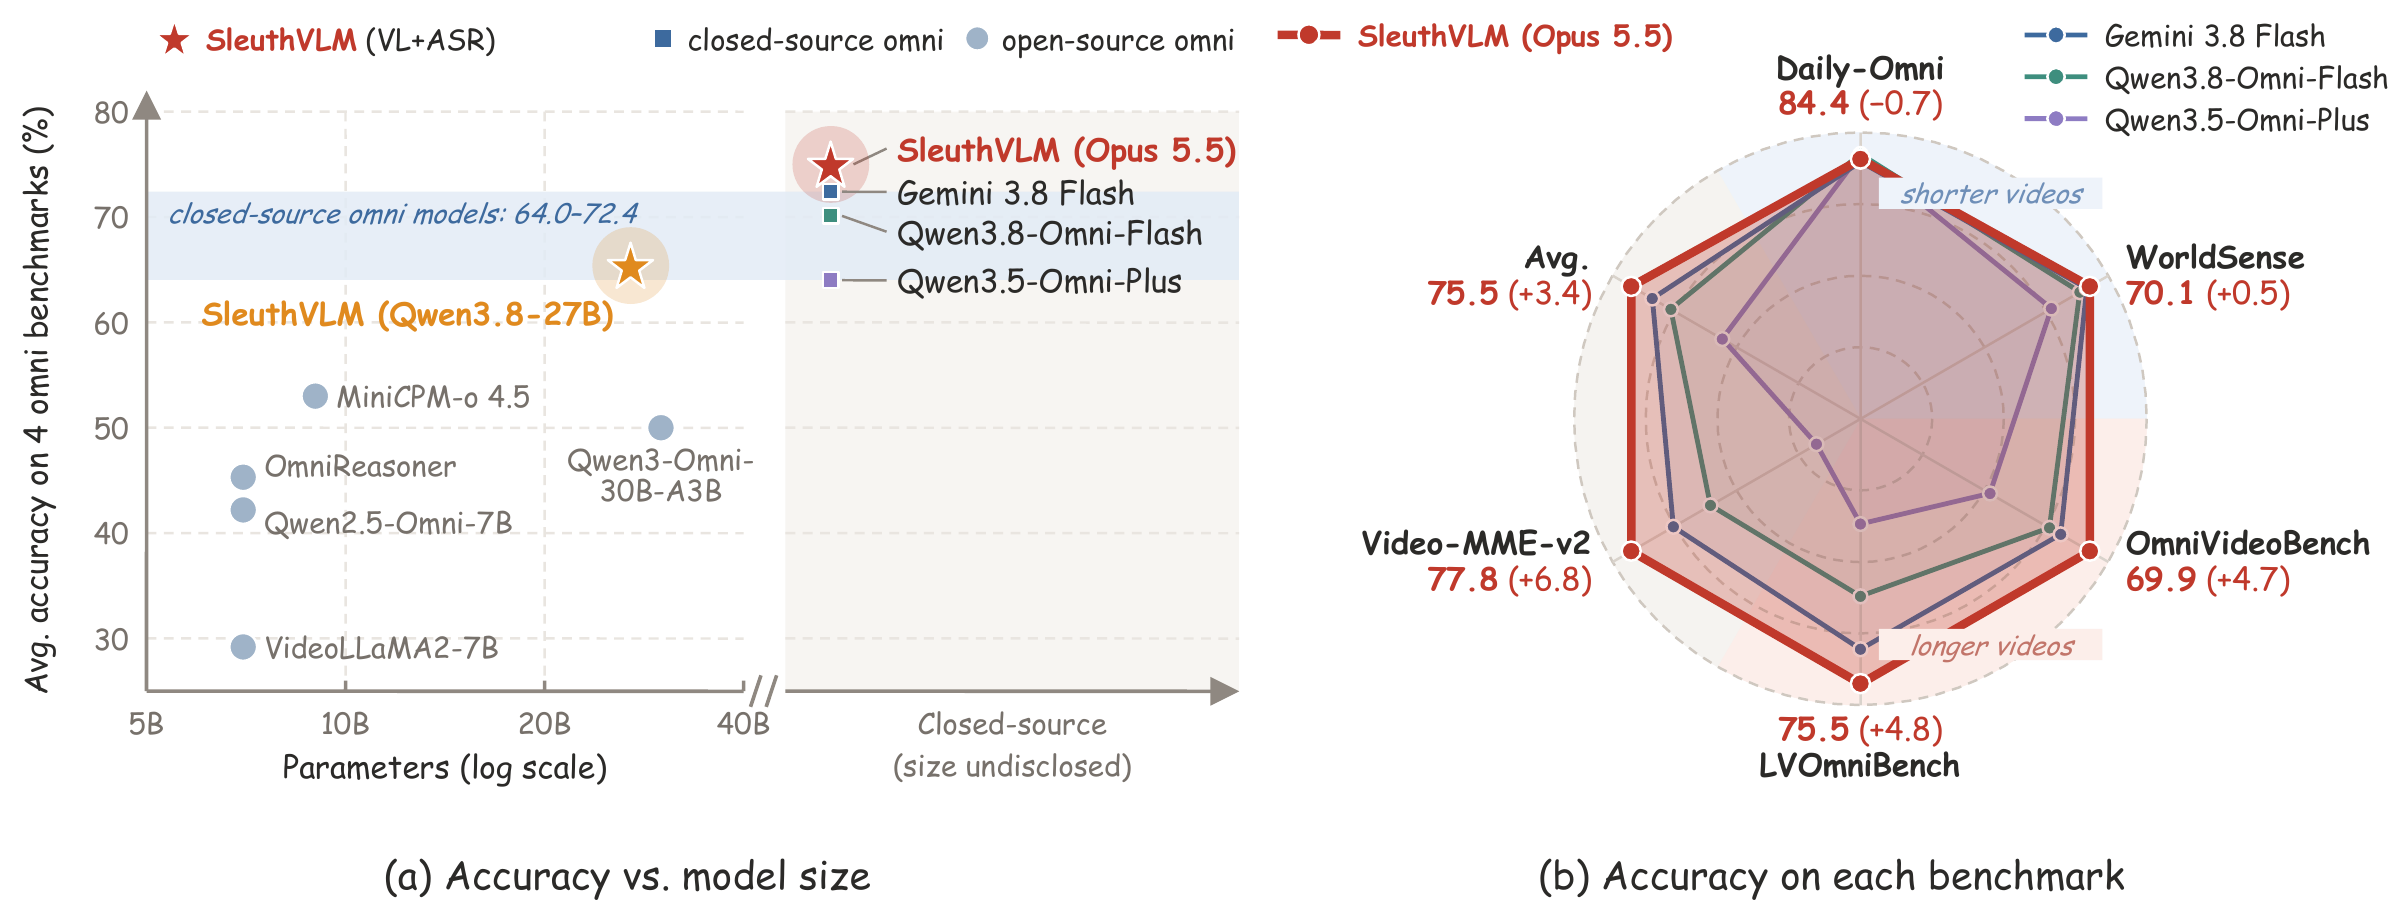
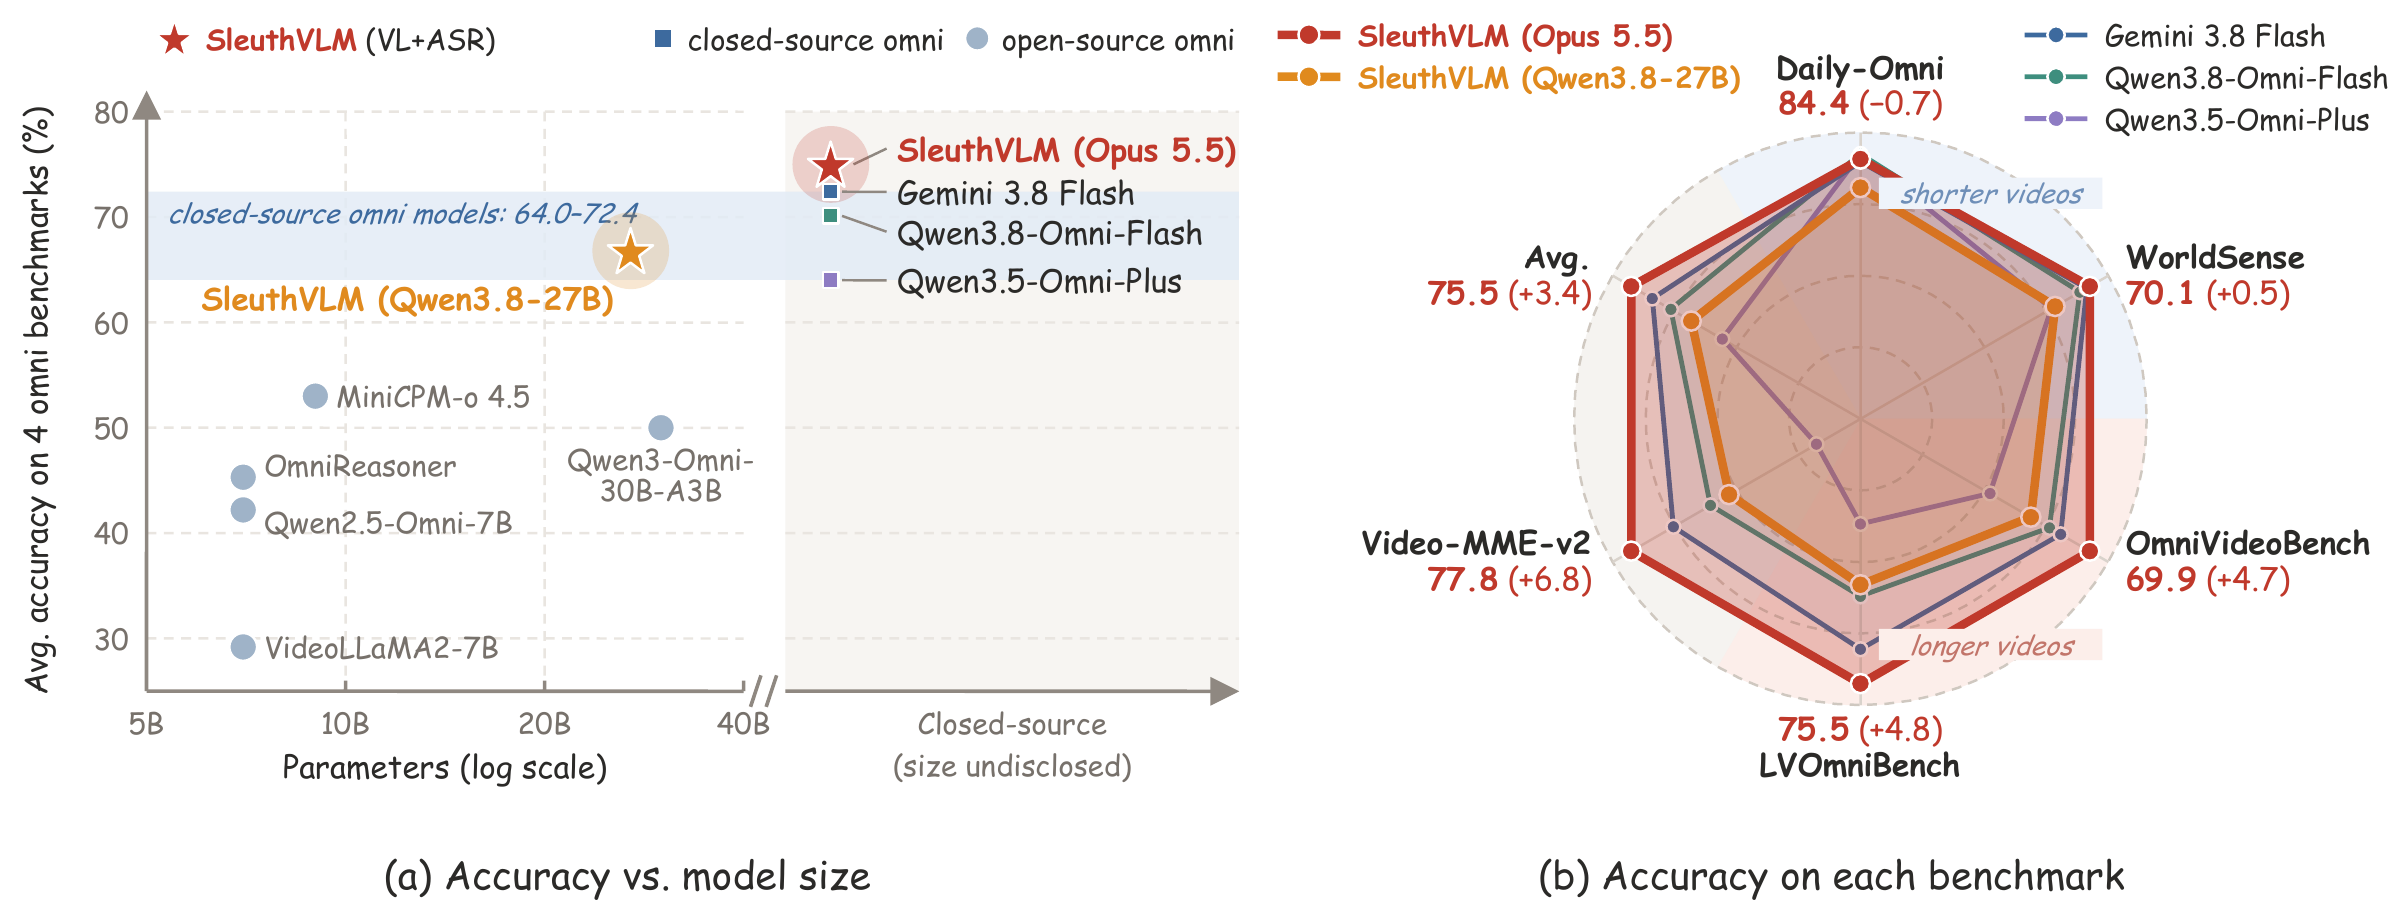
wpr

diff --git a/index.html b/index.html
@@ -88,7 +88,7 @@
         <div class="stat-label">accuracy on Video-MME-v2, <b>best on every metric</b> of the leaderboard</div>
       </div>
       <div class="stat">
-        <div class="stat-value">+12.4</div>
+        <div class="stat-value">+13.8</div>
         <div class="stat-label">points for an open <b>27B VLM</b> over the best open-source omni model</div>
       </div>
     </div>
@@ -96,7 +96,7 @@
 
   <section class="container" id="abstract">
     <h2>Abstract</h2>
-    <p>Omni models answer questions about videos by jointly processing sampled frames and audio in one turn, with progress driven largely by scaling model size and omni training data. We ask whether a model needs to hear the audio directly at all, and present <b>SleuthVLM</b>, an agent harness built on a VLM that never hears the audio directly: speech is transcribed into text, and the VLM sleuths the video on its own. On four omni benchmarks with videos up to 90 minutes, SleuthVLM achieves the best average accuracy, <b>75.0%</b>, 2.6 points above Gemini 3.8 Flash, and it also tops the Video-MME-v2 leaderboard with <b>77.8%</b>; with an open-source 27B VLM, it beats all open-source omni models. We draw three findings: SleuthVLM beats a model that glances; hearing is not the bottleneck, agentic ability is; omni understanding needs better agentic ability, not just more omni data for modality alignment.</p>
+    <p>Omni models answer questions about videos by jointly processing sampled frames and audio in one turn, with progress driven largely by scaling model size and omni training data. We ask whether a model needs to hear the audio directly at all, and present <b>SleuthVLM</b>, an agent harness built on a VLM that never hears the audio directly: speech is transcribed into text, and the VLM sleuths the video on its own without any predefined workflow. On four omni benchmarks with videos up to 90 minutes, SleuthVLM achieves the best average accuracy, <b>75.0%</b>, 2.6 points above Gemini 3.8 Flash, and it also tops the Video-MME-v2 leaderboard with <b>77.8%</b>; with an open-source 27B VLM, it beats all open-source omni models. We draw three findings: SleuthVLM beats a model that glances; hearing is not the bottleneck, agentic ability is; omni understanding needs better agentic ability, not just more omni data for modality alignment. So we provide a simple but effective starting point for omni video understanding.</p>
   </section>
 
   <section class="container" id="findings">
@@ -118,6 +118,7 @@
         <p>An open 27B VLM running on a single GPU matches the performance of closed-source omni models.</p>
       </article>
     </div>
+    <p class="takeaway">Taken together, <b>SleuthVLM provides a simple yet effective starting point for agentic omni video understanding.</b></p>
   </section>
 
   <section class="container" id="method">
@@ -146,11 +147,11 @@
 
   <section class="container" id="results">
     <h2>Results</h2>
-    <p>Without hearing the audio directly, SleuthVLM (Opus 5.5) achieves the best average accuracy on four omni benchmarks, ahead of every closed-source omni model, and its lead grows with the length of the video. With an open 27B model, SleuthVLM leads the best open-source omni model by 12.4 points on average and by 17.3 on LVOmniBench.</p>
+    <p>Without hearing the audio directly, SleuthVLM (Opus 5.5) achieves the best average accuracy on four omni benchmarks, ahead of every closed-source omni model, and its lead grows with the length of the video. With an open 27B model, SleuthVLM leads the best open-source omni model by 13.8 points on average and by 18.8 on LVOmniBench.</p>
 
     <div class="table-wrap">
       <table class="results">
-        <caption><b>Comparison with omni models and agents on four omni benchmarks</b> (accuracy, %). A+V: audio as input; V+ASR: speech as a timed transcript, no direct audio. <b>Bold</b>: best; <u>underline</u>: second best; &ndash;: not reported. In parentheses: difference from the best open-source omni model (<span class="d-open">green</span>) or from the best closed-source omni model or Qwen Code agent (<span class="d-closed">red</span>).</caption>
+        <caption><b>Comparison with omni models and agents on four omni benchmarks</b> (accuracy, %). A+V: audio as input; V+ASR: speech as a timed transcript, no direct audio. <b>Bold</b>: best; <u>underline</u>: second best; &ndash;: not reported. In parentheses: difference from the best open-source omni model (<span class="d-open">green</span>) or from the best closed-source omni model or Qwen Code agent (<span class="d-closed">red</span>). All reasoning models run with high reasoning effort; medium: Qwen3.8-27B with medium reasoning effort.</caption>
         <thead>
           <tr><th>Model</th><th>Input</th><th>Daily-Omni</th><th>WorldSense</th><th>OmniVideoBench</th><th>LVOmniBench</th><th>Avg.</th></tr>
         </thead>
@@ -176,14 +177,15 @@
           <tr><td>Gemini 3.8 Flash (Qwen Code)</td><td>A+V</td><td class="na">&ndash;</td><td class="na">&ndash;</td><td><b>70.1</b></td><td>70.7</td><td class="na">&ndash;</td></tr>
           <tr class="group"><td colspan="7">VL + ASR agents</td></tr>
           <tr><td>Qwen3-VL-30B-A3B + TFO</td><td>V+ASR</td><td>68.9</td><td>51.9</td><td class="na">&ndash;</td><td class="na">&ndash;</td><td class="na">&ndash;</td></tr>
-          <tr class="ours"><td>SleuthVLM (Qwen3.8-27B)</td><td>V+ASR</td><td>80.3 <span class="d-open">(&minus;2.1)</span></td><td>62.8 <span class="d-open">(+1.9)</span></td><td>58.3 <span class="d-open">(+14.4)</span></td><td>60.2 <span class="d-open">(+17.3)</span></td><td>65.4 <span class="d-open">(+12.4)</span></td></tr>
+          <tr class="ours"><td>SleuthVLM (Qwen3.8-27B, medium)</td><td>V+ASR</td><td>80.3 <span class="d-open">(&minus;2.1)</span></td><td>62.8 <span class="d-open">(+1.9)</span></td><td>58.3 <span class="d-open">(+14.4)</span></td><td>60.2 <span class="d-open">(+17.3)</span></td><td>65.4 <span class="d-open">(+12.4)</span></td></tr>
+          <tr class="ours"><td>SleuthVLM (Qwen3.8-27B)</td><td>V+ASR</td><td>80.4 <span class="d-open">(&minus;2.0)</span></td><td>64.5 <span class="d-open">(+3.6)</span></td><td>60.4 <span class="d-open">(+16.5)</span></td><td>61.7 <span class="d-open">(+18.8)</span></td><td>66.8 <span class="d-open">(+13.8)</span></td></tr>
           <tr class="ours"><td>SleuthVLM (Opus 5.5)</td><td>V+ASR</td><td><u>84.4</u> <span class="d-closed">(&minus;0.7)</span></td><td><b>70.1</b> <span class="d-closed">(+0.5)</span></td><td><u>69.9</u> <span class="d-closed">(&minus;0.2)</span></td><td><b>75.5</b> <span class="d-closed">(+1.9)</span></td><td><b>75.0</b> <span class="d-closed">(+2.6)</span></td></tr>
         </tbody>
       </table>
     </div>
 
     <h3 class="sub">Video-MME-v2</h3>
-    <p>SleuthVLM (Opus 5.5) also sets a new state of the art on Video-MME-v2: with 77.8% average accuracy and a non-linear score of 63.5, it is the best model on every metric of the leaderboard, 6.8 points above Gemini 3.8 Flash in accuracy. Over the four omni benchmarks and Video-MME-v2 together, it achieves the best average, 75.5%.</p>
+    <p>SleuthVLM (Opus 5.5) also sets a new state of the art on Video-MME-v2: with 77.8% average accuracy and a non-linear score of 63.5, it is the best model on every metric of the leaderboard, 6.8 points above Gemini 3.8 Flash in accuracy. Over the four omni benchmarks and Video-MME-v2 together, it achieves the best average, 75.5%. With Qwen3.8-27B, SleuthVLM reaches 62.0% accuracy and a non-linear score of 44.4, ahead of Gemini-3-Flash, GPT-5 and every open-source model on the leaderboard.</p>
     <div class="table-wrap narrow">
       <table class="results">
         <caption><b>Average over the four omni benchmarks and Video-MME-v2</b> (accuracy, %). DO: Daily-Omni; WS: WorldSense; OVB: OmniVideoBench; LV: LVOmniBench; VM2: Video-MME-v2. QC: the model run as an agent in the Qwen Code harness.</caption>
@@ -194,6 +196,7 @@
           <tr class="ours"><td>SleuthVLM (Opus 5.5)</td><td><u>84.4</u></td><td><b>70.1</b></td><td><u>69.9</u></td><td><b>75.5</b></td><td><b>77.8</b></td><td><b>75.5</b></td></tr>
           <tr><td>Gemini 3.8 Flash</td><td>84.0</td><td><u>69.6</u></td><td>65.2</td><td>70.7</td><td>71.0</td><td><u>72.1</u></td></tr>
           <tr><td>Qwen3.8-Omni-Flash</td><td><b>85.1</b></td><td>68.5</td><td>63.4</td><td>63.3</td><td>65.0</td><td>69.1</td></tr>
+          <tr class="ours"><td>SleuthVLM (Qwen3.8-27B)</td><td>80.4</td><td>64.5</td><td>60.4</td><td>61.7</td><td>62.0</td><td>65.8</td></tr>
           <tr><td>Qwen3.5-Omni-Plus</td><td><b>85.1</b></td><td>63.9</td><td>53.8</td><td>53.2</td><td>47.9</td><td>60.8</td></tr>
           <tr class="sep"><td>Gemini 3.8 Flash (QC)</td><td class="na">&ndash;</td><td class="na">&ndash;</td><td><b>70.1</b></td><td>70.7</td><td><u>72.7</u></td><td class="na">&ndash;</td></tr>
           <tr><td>Qwen3.8-Omni-Flash (QC)</td><td class="na">&ndash;</td><td class="na">&ndash;</td><td>67.8</td><td><u>73.6</u></td><td>71.3</td><td class="na">&ndash;</td></tr>
@@ -204,7 +207,7 @@
     <h3 class="sub">The longer the video, the larger the lead</h3>
     <figure class="wide">
       <img src="static/images/trends.png" width="2400" height="601" loading="lazy" alt="Three charts: the lead of SleuthVLM grows with video length; the number of turns and viewed images grows with video length; each part of the audio input helps.">
-      <figcaption>(a) Lead of SleuthVLM over the best omni model (closed-source for Opus 5.5, open-source for Qwen3.8-27B), with benchmarks ordered by average video length. (b) Turns and images viewed per question by SleuthVLM (Qwen3.8-27B). (c) Accuracy of SleuthVLM (Qwen3.8-27B) as each part of the audio input is added.</figcaption>
+      <figcaption>(a) Lead of SleuthVLM over the best omni model (closed-source for Opus 5.5, open-source for Qwen3.8-27B), with benchmarks ordered by average video length. (b) Turns and images viewed per question by SleuthVLM (Qwen3.8-27B, medium reasoning effort). (c) Accuracy of SleuthVLM (Qwen3.8-27B, medium reasoning effort) as each part of the audio input is added.</figcaption>
     </figure>
   </section>
 

diff --git a/static/css/style.css b/static/css/style.css
@@ -229,6 +229,15 @@ figcaption {
 }
 .cards.cases { margin-top: 4px; }
 
+.takeaway {
+  margin: 18px 0 14px;
+  padding: 14px 20px;
+  border-left: 4px solid var(--accent);
+  border-radius: 0 var(--radius) var(--radius) 0;
+  background: var(--accent-soft);
+  font-size: 1.05rem;
+}
+
 /* Method steps */
 .steps {
   display: grid;
